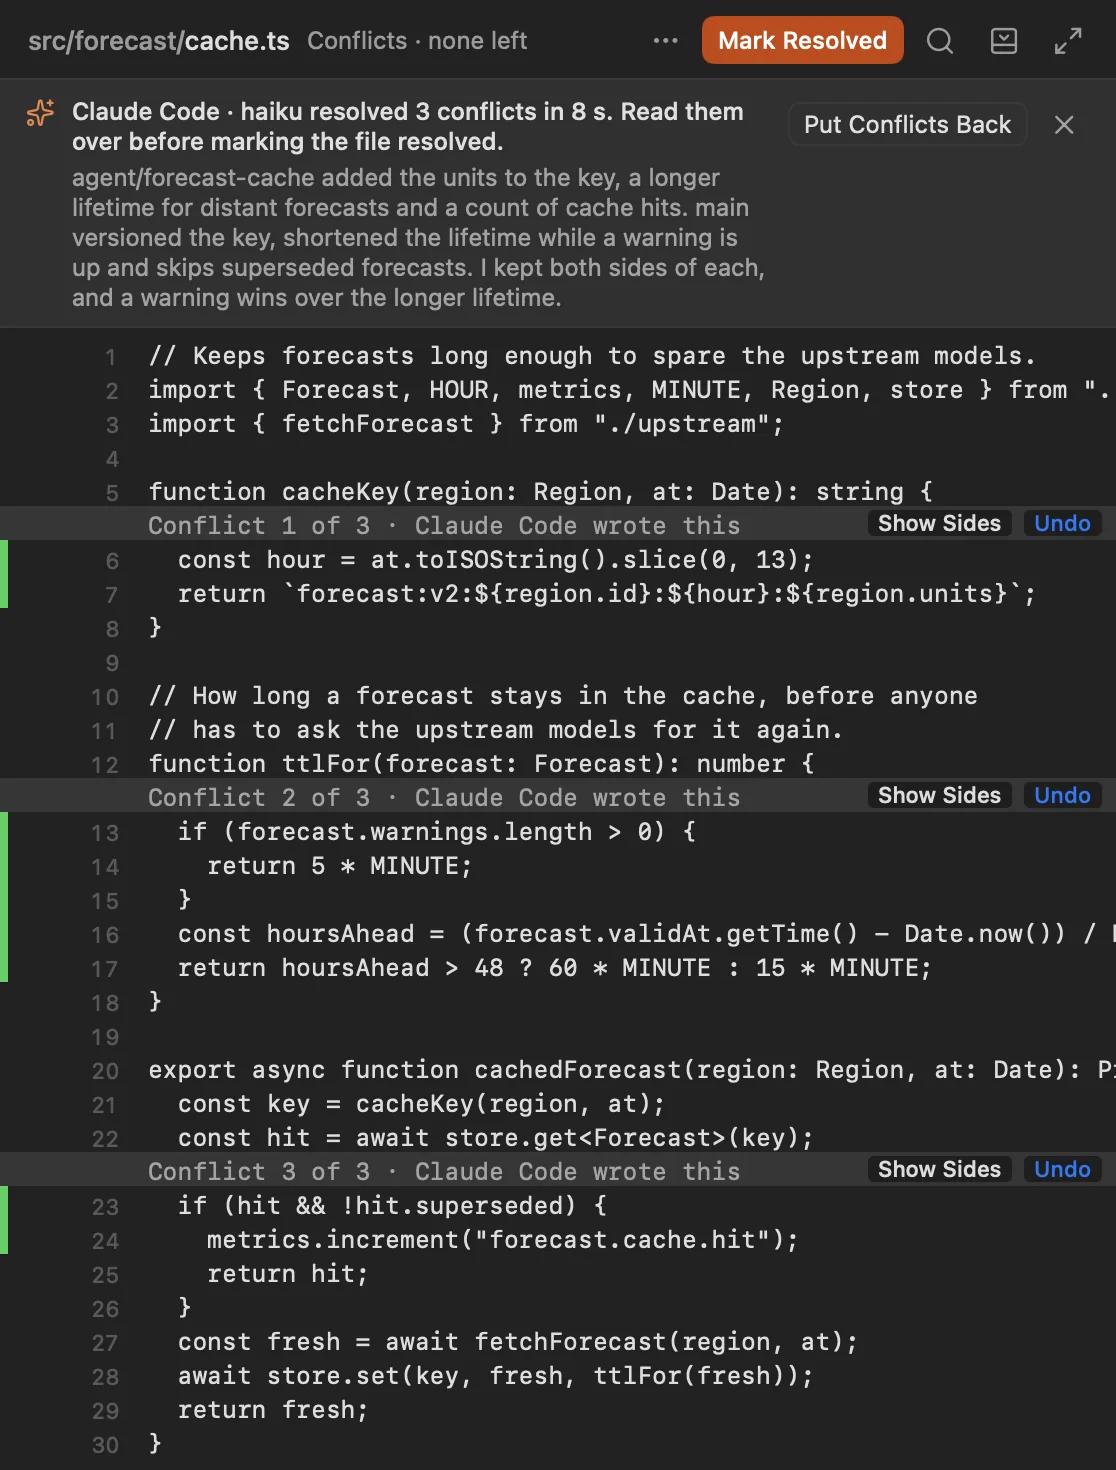
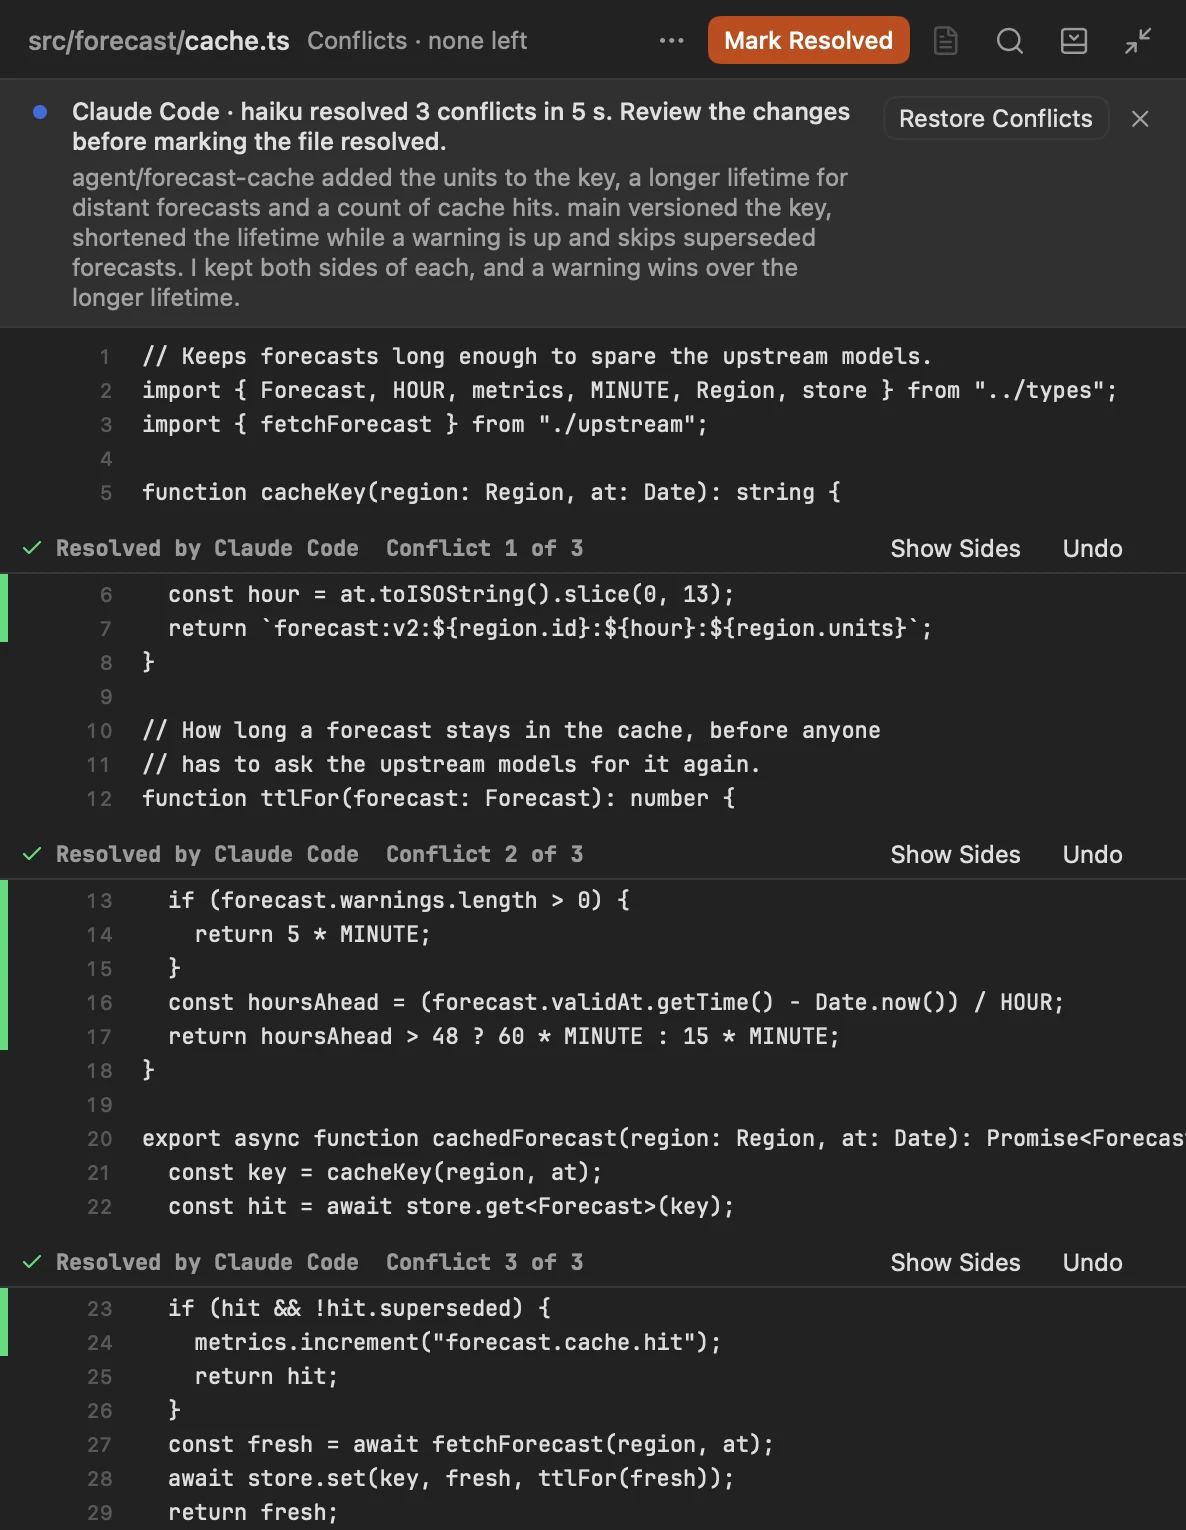
Show real screenshots on all three agent tabs of the landing page
Generate commit messages shows a window with two staged files and the
message Generate with Claude wrote in the style of the commits above.
Solve unknown errors shows git refusing a pull with bad object HEAD, and
then Claude's explanation and the one command that fixes it. The
conflict tab is retaken with the restyled bands. All come from a build
of this branch on a made-up repository, with a stand-in for claude, in
light and dark.

diff --git a/site/public/index.html b/site/public/index.html
@@ -847,25 +847,33 @@
     box-shadow: 0 1.6cqw 3.2cqw -0.8cqw rgb(40 10 0 / 0.45);
   }
 
-  .placeholder {
-    display: grid;
-    place-items: center;
-    width: 62%;
-    height: 100%;
-    padding: 1.5rem;
-    border: 2px dashed rgb(255 255 255 / 0.7);
-    border-radius: 1cqw;
-    background: rgb(255 255 255 / 0.35);
-    color: var(--menu-ink);
-    font-size: 0.9375rem;
-    text-align: center;
+  /* A whole window, a little short of the stage's width so that it never
+     makes the stage taller than the others. Its corners are transparent, so
+     the shadow follows them, as it does for the hero's window. */
+  .single {
+    width: 98%;
   }
 
-  @media (prefers-color-scheme: dark) {
-    .placeholder {
-      border-color: rgb(255 255 255 / 0.35);
-      background: rgb(0 0 0 / 0.25);
-    }
+  /* Two dialogs, one after the other, stepping down to the right. */
+  .steps {
+    display: grid;
+    gap: 3cqw;
+    width: 100%;
+  }
+
+  .steps picture {
+    width: 68%;
+  }
+
+  .steps picture + picture {
+    justify-self: end;
+  }
+
+  .single img,
+  .steps img {
+    width: 100%;
+    height: auto;
+    filter: drop-shadow(0 1.2cqw 2.4cqw rgb(40 10 0 / 0.45));
   }
 
   /* The promises are drawn like history: commits on a line, and the one that
@@ -1127,20 +1135,31 @@
             <div class="shots">
               <picture>
                 <source media="(prefers-color-scheme: dark)" srcset="/shots/conflict-before-dark.webp">
-                <img src="/shots/conflict-before-light.webp" width="1116" height="1470" loading="lazy" alt="Three merge conflicts with branches and commits identified, and a Resolve with Claude button.">
+                <img src="/shots/conflict-before-light.webp" width="1186" height="1530" loading="lazy" alt="Three merge conflicts with branches and commits identified, and a Resolve with Claude button.">
               </picture>
               <picture>
                 <source media="(prefers-color-scheme: dark)" srcset="/shots/conflict-after-dark.webp">
-                <img src="/shots/conflict-after-light.webp" width="1116" height="1470" loading="lazy" alt="Claude Code’s proposed resolutions for the three conflicts, ready for review.">
+                <img src="/shots/conflict-after-light.webp" width="1186" height="1530" loading="lazy" alt="Claude Code’s proposed resolutions for the three conflicts, ready for review.">
               </picture>
             </div>
           </div>
-          <!-- Placeholders until these two are captured from a real build. -->
           <div class="stage" id="panel-messages">
-            <p class="placeholder">Screenshot to come: Generate with Claude in the message editor.</p>
+            <picture class="single">
+              <source media="(prefers-color-scheme: dark)" srcset="/shots/messages-dark.webp">
+              <img src="/shots/messages-light.webp" width="2200" height="1400" loading="lazy" alt="Two staged files, the diff of one, and a commit message Claude Code wrote for them in the style of the recent commits above.">
+            </picture>
           </div>
           <div class="stage" id="panel-errors">
-            <p class="placeholder">Screenshot to come: Fix with Claude on a command Git refused.</p>
+            <div class="steps">
+              <picture>
+                <source media="(prefers-color-scheme: dark)" srcset="/shots/error-before-dark.webp">
+                <img src="/shots/error-before-light.webp" width="1040" height="416" loading="lazy" alt="Git refusing to pull with the message bad object HEAD, and a Fix with Claude button.">
+              </picture>
+              <picture>
+                <source media="(prefers-color-scheme: dark)" srcset="/shots/error-after-dark.webp">
+                <img src="/shots/error-after-light.webp" width="1040" height="472" loading="lazy" alt="Claude Code’s explanation of what broke and the one Git command that fixes it, waiting for you to run it.">
+              </picture>
+            </div>
           </div>
         </div>
       </div>

diff --git a/site/README.md b/site/README.md
@@ -49,4 +49,4 @@ Two settings on the `roga.sh` zone can't be set from this repository, and both a
 
 `favicon.svg` is the mark from [`docs/design/branding`](../docs/design/branding), and the PNGs were rendered from the same artwork. `index.html` holds its own copies of the house and the wordmark, and nothing keeps these in step automatically. The display around the first screenshot is drawn in CSS, and its menu bar and the hill on its wallpaper reuse the header's house through the `house` id, so that id has to stay.
 
-`public/shots/` holds screenshots of a real build of Roga, in light and dark, pointed at made-up repositories so that nobody's real work appears. The agents in them come from real hook events sent to that build. The merge conflict's resolution goes through the real Resolve with Claude, with a stand-in for the `claude` command whose reply was written for the picture. They're WebP files at twice the size they're shown, and they need retaking when the window has changed enough to look out of date. The repository's README shows `window-light.webp` and `window-dark.webp` too, so renaming them means updating it.
+`public/shots/` holds screenshots of a real build of Roga, in light and dark, pointed at made-up repositories so that nobody's real work appears. The agents in them come from real hook events sent to that build. The merge conflict's resolution, the commit message and the fix for a pull go through the real Resolve with Claude, Generate and Fix with Claude, with a stand-in for the `claude` command whose replies were written for the pictures. The pull's refusal is git's own, from a repository broken the way [decision 63](../docs/decisions/0063-ask-an-agent-to-fix-what-git-refused.md) describes. They're WebP files at twice the size they're shown, and they need retaking when the window has changed enough to look out of date. The repository's README shows `window-light.webp` and `window-dark.webp` too, so renaming them means updating it.
